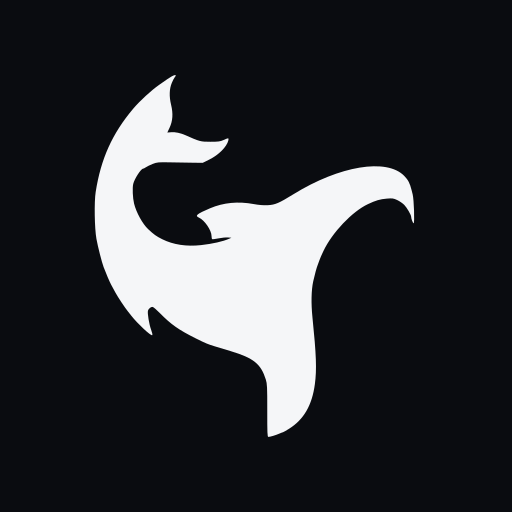
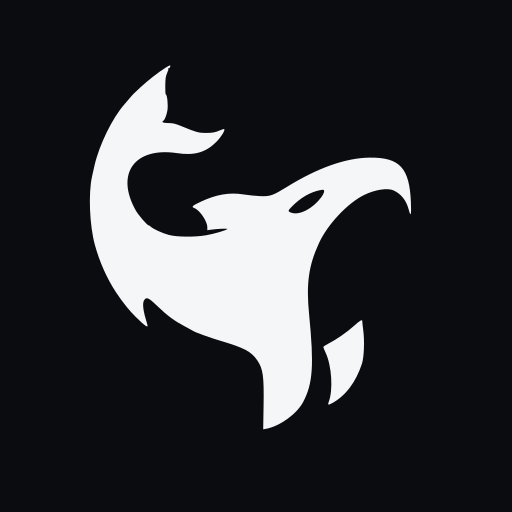
Enhance Next.js configuration with internationalization support and update dependencies. Refactor global styles for improved theming and layout structure. Remove default home page component.

diff --git a/lib/brand.ts b/lib/brand.ts
@@ -1,13 +1,14 @@
 export const BRAND = {
   name: "Orca-Tech",
   legalName: "Orca Technology Group",
-  email: "hello@orca-tech.com",
+  email: "info@orcatechltd.com",
+  emails: ["info@orcatechltd.com", "sales@orcatechltd.com"] as const,
   phone: "+971 4 000 0000",
-  streetAddress: "Dubai Internet City, Building 3",
-  locality: "Dubai",
-  country: "AE",
+  streetAddress: "Port Fouad",
+  locality: "Port Said",
+  country: "EG",
   sameAs: [
-    "https://www.linkedin.com/",
+    "https://www.linkedin.com/company/orca-techs/",
     "https://www.facebook.com/",
     "https://www.instagram.com/",
   ],
@@ -22,6 +23,7 @@ export const BRAND_COLORS = {
   muted: "#9aa1ac",
 } as const;
 
-/** Orca mark path from public/assets/logo.svg (viewBox 40 8 420 472). */
+/** Orca mark path from public/assets/logo.svg (viewBox 0 0 510 509). */
+export const ORCA_MARK_VIEWBOX = "0 0 510 509";
 export const ORCA_MARK_PATH =
-  "M136.5 17.027C132.65 19.723 127.925 23.016 126 24.345C116.144 31.148 100.946 45.093 92.59 55C65.588 87.015 51.097 119.169 44.395 161.941C42.396 174.702 42.94 208.586 45.361 222C47.162 231.984 52.24 251.936 54.56 258.148C57.57 266.208 62.392 277.474 64.339 281C65.402 282.925 67.846 287.425 69.771 291C72.79 296.611 81.918 310.369 85.693 315C86.366 315.825 88.318 318.3 90.032 320.5C97.986 330.711 115.102 346.673 116.903 345.56C117.509 345.186 116.971 342.504 115.516 338.638C112.96 331.847 110.526 317.07 111.472 314.088C112.392 311.188 115.654 308.755 117.735 309.416C118.769 309.744 122.739 313.19 126.557 317.073C141.14 331.905 150.733 338.657 173 349.764C185.5 355.999 188.43 357.217 197.5 359.954C200.8 360.95 209.718 363.64 217.319 365.932C247.088 374.908 256.318 382.358 262.622 402.5C264.308 407.887 264.495 411.946 264.453 442.25C264.413 470.881 264.623 476 265.837 476C268.1 476 275.11 473.919 279.739 471.873C282.071 470.843 284.283 470 284.655 470C285.027 470 288.52 468.003 292.416 465.563C311.345 453.707 321.912 435.432 325.522 408.309C328.03 389.467 327.365 371.221 322.393 322.5C320.57 304.636 320.938 287.83 323.399 276.5C325.349 267.522 327.908 258.318 329.515 254.5C330.209 252.85 331.112 250.375 331.522 249C331.931 247.625 334.193 242.442 336.549 237.483C347.704 214.001 373.349 186.98 393.47 177.509C403.796 172.648 408.991 171.131 417.825 170.394C424.952 169.8 426.275 169.983 431.12 172.23C434.079 173.603 438.156 176.406 440.18 178.459C443.473 181.801 448.991 191.267 449.006 193.6C449.021 196.151 451.236 202 452.187 202C453.601 202 452.584 171.396 450.957 165C450.328 162.525 449.7 160.05 449.563 159.5C447.324 150.543 445.258 146.538 440.181 141.306C417.756 118.198 357.282 128.168 298.093 164.732C279.425 176.265 274.624 178.326 265.288 178.816C259.846 179.101 253.754 178.629 247.281 177.419C227.071 173.642 208.328 175.441 191 182.822C173.973 190.074 171.302 192.331 176.853 194.779C184.012 197.937 193 211.093 193 218.412C193 220.321 193.367 222.109 193.816 222.386C194.265 222.664 197.889 222.217 201.87 221.393C205.851 220.569 211.221 220.042 213.804 220.222L218.5 220.55 215.5 221.89C207.833 225.314 194.227 228.392 179.548 230.023C160.884 232.096 143.78 229.501 129.775 222.472C121.962 218.551 119.227 216.595 111.639 209.5C104.537 202.859 96.417 188.092 93.637 176.762C91.891 169.648 91.33 156.543 92.555 151.5C94.143 144.96 102.523 132 105.163 132C105.728 132 107.386 131.164 108.846 130.141C110.306 129.119 114.2 127.217 117.5 125.914C123.133 123.689 124.54 123.565 140.5 123.882C149.85 124.067 162.935 124.282 169.577 124.359L181.654 124.5 190.254 120.238C202.257 114.289 212.564 103.899 214.548 95.75C215.362 92.404 214.676 92.347 208.377 95.239C204.194 97.159 201.792 97.479 191.5 97.489C178.929 97.501 177.735 97.185 159.5 89.037C153.389 86.306 146.354 84.806 141.532 85.206L136.273 85.642 139.21 79.365C143.267 70.696 143.874 61.381 141.12 50.083C138.505 39.353 138.818 29.633 142.025 22C143.296 18.975 144.935 15.79 145.668 14.921C149.709 10.133 144.703 11.282 136.5 17.027Z";
+  "M139.932 14.828C130.131 21.044 118.027 30.484 107.655 40C99.338 47.632 98.114 48.879 93 54.934C90.525 57.864 88.05 60.765 87.5 61.381C72.083 78.638 54.93 113.703 49.04 140C47.87 145.225 46.509 151.3 46.016 153.5C41.109 175.368 42.775 215.977 49.604 241C55.526 262.701 65.127 284.188 76.708 301.66C80.111 306.795 86.129 315.164 87.019 316C87.312 316.275 89.085 318.525 90.958 321C92.832 323.475 97.545 328.659 101.432 332.52C113.507 344.512 118.039 347.583 116.531 342.75C111.025 325.099 109.776 315.192 112.557 311.223C115.508 307.008 118.268 308.308 129.606 319.25C142.223 331.427 150.978 337.882 164.5 344.981C170 347.868 174.95 350.575 175.5 350.996C177.379 352.436 198.48 359.987 210.5 363.521C240.235 372.264 249.262 377.103 256.842 388.358C264.127 399.176 265.389 408.415 264.762 446.336L264.268 476.172 267.884 475.514C285.401 472.327 307.295 456.506 315.28 441.266C327.652 417.652 329.225 394.604 322.871 330C318.967 290.31 322.092 267.674 335.501 238.5C346.388 214.814 372.08 187.482 393.119 177.206C407.101 170.377 423.112 167.949 430.703 171.507C440.286 175.999 446.804 184.229 449.787 195.604C452.527 206.051 453.367 203.322 452.668 186.25C450.889 142.8 438.456 129.302 400.5 129.615C369.941 129.867 333.982 142.542 294.5 166.977C276.399 178.18 273.113 179.298 260 178.72C254.225 178.465 244.775 177.489 239 176.551C221.363 173.688 204.452 176.579 184.75 185.825C173.599 191.058 172.261 192.388 176.521 194.008C183.345 196.602 193 210.836 193 218.301L193 222.21 197.25 221.602C206.375 220.297 219.501 219.787 218.5 220.776C216.769 222.486 201.606 226.894 191.351 228.668C176.931 231.163 153.925 230.945 143.882 228.218C135.593 225.967 124.252 220.815 121.079 217.859C119.982 216.837 118.666 216 118.156 216C116.304 216 105.053 202.92 101.611 196.765C75.433 149.954 100.273 115.734 154.5 123.906C176.429 127.21 190.897 123.09 204.323 109.718C210.56 103.507 216.04 94.707 214.581 93.247C214.258 92.925 211.858 93.616 209.247 94.783C203.001 97.575 199.336 98.221 190.138 98.147C181.914 98.082 178.424 97.096 161 89.918C152.015 86.216 149.454 85.585 143.25 85.546C136.462 85.503 134.022 84.341 136.937 82.539C138.739 81.425 141.002 75.655 142.093 69.39C143.221 62.91 141.804 49 140.015 49C139.573 49 139.29 43.938 139.386 37.75C139.53 28.525 139.96 25.626 141.773 21.641C142.989 18.969 143.693 16.312 143.337 15.737C142.982 15.162 143.163 14.983 143.741 15.34C144.318 15.697 145.063 15.279 145.395 14.412C146.666 11.1 145.694 11.174 139.932 14.828M336.5 171.17C323.812 173.88 312.282 180.586 301.197 191.703C295.374 197.544 295.324 198.292 300.639 200.046C310.838 203.412 327.951 194.37 338.45 180.069C341.786 175.524 342.953 171.627 341.25 170.717C340.837 170.497 338.7 170.7 336.5 171.17M380.286 344.045C371.277 352.196 357.444 361.825 347.75 366.692C344.038 368.556 341 370.582 341 371.194C341 371.806 342.293 375.05 343.873 378.403C351.71 395.037 353.677 426.358 347.822 441.282C346.25 445.289 347.282 445.572 352.611 442.594C369.649 433.071 382.594 415.826 390.214 392.5C392.894 384.295 393.707 363.693 391.896 349.865C391.149 344.164 390.592 338.938 390.658 338.25C390.918 335.53 387.724 337.315 380.286 344.045";

diff --git a/components/layout/MobileDrawer.tsx b/components/layout/MobileDrawer.tsx
@@ -5,7 +5,10 @@ import { LanguageSwitcher } from "@/components/layout/LanguageSwitcher";
 import { Link } from "@/i18n/navigation";
 import { cn } from "@/lib/utils";
 import { AnimatePresence, motion, useReducedMotion } from "framer-motion";
+import { X } from "lucide-react";
 import { useTranslations } from "next-intl";
+import { useEffect, useState } from "react";
+import { createPortal } from "react-dom";
 
 const links = [
   { href: "/", key: "home" },
@@ -24,58 +27,80 @@ export function MobileDrawer({
 }) {
   const t = useTranslations("nav");
   const reduce = useReducedMotion();
+  const [mounted, setMounted] = useState(false);
 
-  return (
+  useEffect(() => {
+    setMounted(true);
+  }, []);
+
+  useEffect(() => {
+    if (!open) return;
+    const previous = document.body.style.overflow;
+    document.body.style.overflow = "hidden";
+    const onKey = (event: KeyboardEvent) => {
+      if (event.key === "Escape") onClose();
+    };
+    window.addEventListener("keydown", onKey);
+    return () => {
+      document.body.style.overflow = previous;
+      window.removeEventListener("keydown", onKey);
+    };
+  }, [open, onClose]);
+
+  if (!mounted) return null;
+
+  return createPortal(
     <AnimatePresence>
       {open ? (
         <motion.aside
-          className="fixed inset-0 z-50 lg:hidden"
+          className="fixed inset-0 z-[100] flex flex-col bg-[#0a0c10] lg:hidden"
           initial={{ opacity: 0 }}
           animate={{ opacity: 1 }}
           exit={{ opacity: 0 }}
+          transition={{ duration: 0.25 }}
+          aria-modal="true"
+          role="dialog"
+          aria-label={t("openMenu")}
         >
-          <button
-            type="button"
-            className="absolute inset-0 bg-background/70 backdrop-blur-sm"
-            aria-label={t("closeMenu")}
-            onClick={onClose}
-          />
-          <motion.div
-            className="absolute inset-y-0 end-0 flex w-[min(100%,20rem)] flex-col border-s border-border bg-elevated p-6 shadow-[-20px_0_60px_rgb(0_0_0_/_0.45)]"
-            initial={reduce ? false : { x: 40, opacity: 0 }}
-            animate={{ x: 0, opacity: 1 }}
-            exit={reduce ? { opacity: 0 } : { x: 40, opacity: 0 }}
-            transition={{ duration: 0.4, ease: [0.16, 1, 0.3, 1] }}
+          <div className="flex h-16 items-center justify-end px-5 sm:h-[4.25rem] sm:px-8">
+            <button
+              type="button"
+              className="rounded-full border border-border p-2 text-heading"
+              aria-label={t("closeMenu")}
+              onClick={onClose}
+            >
+              <X size={18} />
+            </button>
+          </div>
+          <motion.nav
+            className="flex flex-1 flex-col gap-1 overflow-y-auto px-5 pb-8 sm:px-8"
+            initial={reduce ? false : { y: 16, opacity: 0 }}
+            animate={{ y: 0, opacity: 1 }}
+            exit={reduce ? { opacity: 0 } : { y: 12, opacity: 0 }}
+            transition={{ duration: 0.35, ease: [0.16, 1, 0.3, 1] }}
           >
-            <nav className="mt-10 flex flex-col gap-2">
-              {links.map((link, index) => (
-                <motion.div
-                  key={link.href}
-                  initial={reduce ? false : { opacity: 0, y: 12 }}
-                  animate={{ opacity: 1, y: 0 }}
-                  transition={{ delay: 0.05 * index, duration: 0.4 }}
-                >
-                  <Link
-                    href={link.href}
-                    onClick={onClose}
-                    className={cn(
-                      "block rounded-xl px-3 py-3 text-lg text-heading transition-colors hover:bg-surface hover:text-accent",
-                    )}
-                  >
-                    {t(link.key)}
-                  </Link>
-                </motion.div>
-              ))}
-            </nav>
-            <div className="mt-auto flex flex-col gap-4">
+            {links.map((link) => (
+              <Link
+                key={link.href}
+                href={link.href}
+                onClick={onClose}
+                className={cn(
+                  "rounded-xl px-3 py-3 text-2xl font-semibold text-heading transition-colors hover:bg-surface hover:text-accent",
+                )}
+              >
+                {t(link.key)}
+              </Link>
+            ))}
+            <div className="mt-auto flex flex-col gap-4 pt-10">
               <LanguageSwitcher />
-              <ButtonLink href="/contact" onClick={onClose}>
+              <ButtonLink href="/contact" onClick={onClose} className="w-full">
                 {t("contact")}
               </ButtonLink>
             </div>
-          </motion.div>
+          </motion.nav>
         </motion.aside>
       ) : null}
-    </AnimatePresence>
+    </AnimatePresence>,
+    document.body,
   );
 }

diff --git a/components/layout/Footer.tsx b/components/layout/Footer.tsx
@@ -42,12 +42,26 @@ export function Footer() {
           <p className="mt-4 max-w-sm text-sm leading-6 text-muted">
             {t("footer.description")}
           </p>
+          <div className="mt-4 space-y-1 text-sm">
+            <a
+              href={`mailto:${t("contact.emailInfo")}`}
+              className="block text-muted transition-colors hover:text-heading"
+            >
+              {t("contact.emailInfo")}
+            </a>
+            <a
+              href={`mailto:${t("contact.emailSales")}`}
+              className="block text-muted transition-colors hover:text-heading"
+            >
+              {t("contact.emailSales")}
+            </a>
+          </div>
           <p className="mt-6 text-xs font-semibold uppercase tracking-[0.16em] text-muted">
             {t("footer.followUs")}
           </p>
           <div className="mt-3 flex gap-3">
             {[
-              { href: "https://www.linkedin.com/", icon: LinkedInIcon, label: "LinkedIn" },
+              { href: "https://www.linkedin.com/company/orca-techs/", icon: LinkedInIcon, label: "LinkedIn" },
               { href: "https://www.facebook.com/", icon: FacebookIcon, label: "Facebook" },
               { href: "https://www.instagram.com/", icon: InstagramIcon, label: "Instagram" },
             ].map(({ href, icon: Icon, label }) => (

diff --git a/components/contact/OfficeMap.tsx b/components/contact/OfficeMap.tsx
@@ -1,18 +1,22 @@
 import { getTranslations } from "next-intl/server";
 
+const LAT = 31.239621138513407;
+const LNG = 32.320161845413416;
+const MAP_SRC = `https://maps.google.com/maps?q=${LAT},${LNG}&hl=en&z=16&output=embed`;
+
 export async function OfficeMap() {
   const t = await getTranslations("contact");
 
   return (
     <figure className="overflow-hidden rounded-2xl border border-border">
-      <div
-        className="relative h-64 w-full bg-[radial-gradient(circle_at_30%_40%,#2f6fff33,transparent_35%),linear-gradient(135deg,#111318,#1a1d24)]"
-        role="img"
-        aria-label={t("mapCaption")}
-      >
-        <div className="absolute start-[42%] top-[48%] h-4 w-4 -translate-x-1/2 -translate-y-1/2 rounded-full bg-accent shadow-[0_0_24px_#2F6FFF]" />
-        <div className="absolute start-[42%] top-[48%] h-10 w-10 -translate-x-1/2 -translate-y-1/2 rounded-full border border-accent/40" />
-      </div>
+      <iframe
+        title={t("mapCaption")}
+        src={MAP_SRC}
+        className="h-64 w-full border-0 grayscale invert-[0.88] contrast-[0.95]"
+        loading="lazy"
+        referrerPolicy="no-referrer-when-downgrade"
+        allowFullScreen
+      />
       <figcaption className="bg-surface px-4 py-3 text-xs text-muted">
         {t("mapCaption")}
       </figcaption>

diff --git a/components/layout/Navbar.tsx b/components/layout/Navbar.tsx
@@ -6,7 +6,7 @@ import { MobileDrawer } from "@/components/layout/MobileDrawer";
 import { ButtonLink } from "@/components/ui/Button";
 import { Link, usePathname } from "@/i18n/navigation";
 import { cn } from "@/lib/utils";
-import { Menu, X } from "lucide-react";
+import { Menu } from "lucide-react";
 import { useTranslations } from "next-intl";
 import { useEffect, useState } from "react";
 
@@ -77,11 +77,12 @@ export function Navbar() {
 
         <button
           type="button"
-          className="rounded-full border border-border p-2 text-heading lg:hidden"
-          aria-label={open ? t("closeMenu") : t("openMenu")}
-          onClick={() => setOpen((value) => !value)}
+          className="relative z-10 rounded-full border border-border p-2 text-heading lg:hidden"
+          aria-label={t("openMenu")}
+          aria-expanded={open}
+          onClick={() => setOpen(true)}
         >
-          {open ? <X size={18} /> : <Menu size={18} />}
+          <Menu size={18} />
         </button>
       </div>
       <MobileDrawer open={open} onClose={() => setOpen(false)} />

diff --git a/components/home/Hero.tsx b/components/home/Hero.tsx
@@ -43,7 +43,7 @@ export function Hero() {
             initial={reduce ? false : { opacity: 0, y: 20 }}
             animate={{ opacity: 1, y: 0 }}
             transition={{ duration: 0.7, delay: 0.08, ease }}
-            className="font-display text-4xl font-semibold leading-[1.1] tracking-tight text-heading sm:text-5xl lg:text-6xl"
+            className="font-display text-[1.85rem] font-semibold leading-[1.15] tracking-tight text-heading sm:text-5xl lg:text-6xl"
           >
             {t("heroHeadline")}{" "}
             <span className="bg-linear-to-r from-accent to-accent-soft bg-clip-text text-transparent">
@@ -54,7 +54,7 @@ export function Hero() {
             initial={reduce ? false : { opacity: 0, y: 20 }}
             animate={{ opacity: 1, y: 0 }}
             transition={{ duration: 0.7, delay: 0.16, ease }}
-            className="mt-6 max-w-xl text-lg leading-8 text-muted"
+            className="mt-6 max-w-xl text-base leading-7 text-muted sm:text-lg sm:leading-8"
           >
             {t("heroSubheadline")}
           </motion.p>

diff --git a/components/contact/ContactInfo.tsx b/components/contact/ContactInfo.tsx
@@ -12,8 +12,17 @@ export async function ContactInfo() {
           <Mail className="mt-0.5 h-4 w-4 text-accent" aria-hidden />
           <div>
             <p className="text-muted">{t("emailLabel")}</p>
-            <a href={`mailto:${t("emailValue")}`} className="text-heading hover:text-accent">
-              {t("emailValue")}
+            <a
+              href={`mailto:${t("emailInfo")}`}
+              className="block text-heading hover:text-accent"
+            >
+              {t("emailInfo")}
+            </a>
+            <a
+              href={`mailto:${t("emailSales")}`}
+              className="mt-1 block text-heading hover:text-accent"
+            >
+              {t("emailSales")}
             </a>
           </div>
         </li>

diff --git a/lib/jsonld.tsx b/lib/jsonld.tsx
@@ -21,7 +21,7 @@ export function organizationJsonLd(locale: string) {
     url: `${SITE_URL}/${locale}`,
     logo: `${SITE_URL}/icon-512.png`,
     image: `${SITE_URL}/og.png`,
-    email: BRAND.email,
+    email: [...BRAND.emails],
     telephone: BRAND.phone,
     address: {
       "@type": "PostalAddress",
